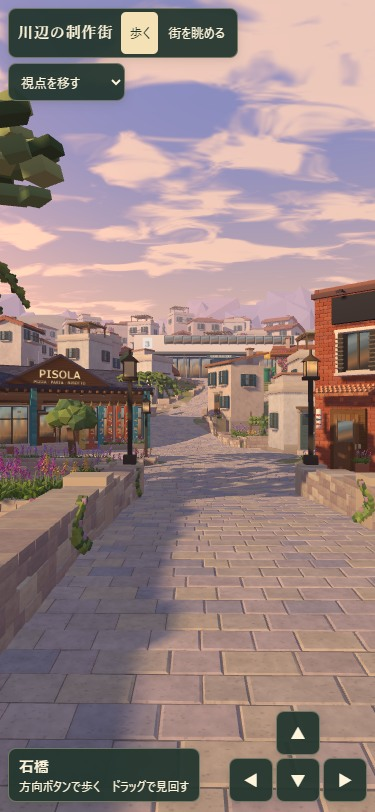
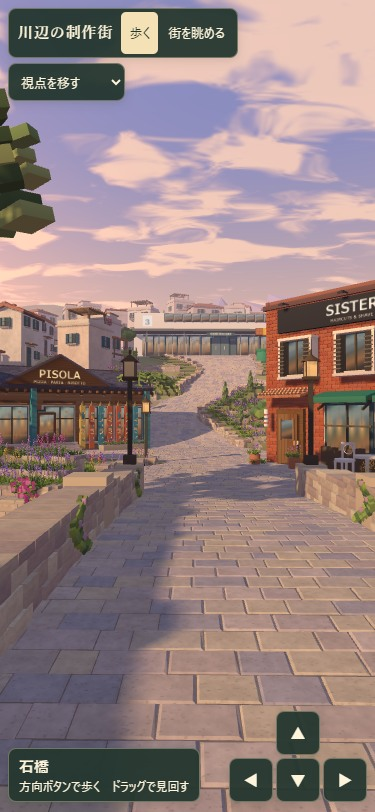
docs(prototype): compare bridge sightlines and verify both walking routes

diff --git a/prototype/review/compare.html b/prototype/review/compare.html
@@ -1,7 +1,7 @@
 <!doctype html>
 <html lang="ja">
 <meta charset="utf-8"><meta name="viewport" content="width=device-width,initial-scale=1">
-<title>街区の変更前後 ｜ 川辺の制作街</title>
+<title>石橋から見た街の変更前後 ｜ 川辺の制作街</title>
 <style>
   * { box-sizing: border-box }
   body { max-width: 1500px; margin: auto; padding: 20px; background: #f8f4ec; color: #292d28; font: 1rem/1.5 system-ui,sans-serif }
@@ -17,40 +17,42 @@
   .mobile { max-width: 770px }
   details { margin-top: 1.2rem } summary { cursor: pointer; margin-bottom: .6rem }
   details img { max-width: 780px }
+  details a { display: block }
   [hidden] { display: none }
   @media(max-width:620px){body{padding:12px}.desktop .pair{grid-template-columns:1fr}.pair{gap:8px}}
 </style>
-<header><h1>街区の変更前後</h1><a href="walk.html">街を開く →</a></header>
+<header><h1>石橋から見た街の変更前後</h1><a href="walk.html">街を開く →</a></header>
 <div class="options" role="group" aria-label="撮影サイズ">
   <label><input type="radio" name="size" value="desktop" checked> PC · 1280 × 800</label>
   <label><input type="radio" name="size" value="mobile"> スマホ · 375 × 812</label>
 </div>
 <section class="desktop" data-size="desktop" aria-label="PCの比較">
-  <h2>街区の俯瞰</h2>
-  <div class="pair">
-    <figure><figcaption>変更前</figcaption><a href="before-overview-1280.jpg"><img src="before-overview-1280.jpg" alt="PC・変更前の街区の俯瞰"></a></figure>
-    <figure><figcaption>変更後</figcaption><a href="overview-1280.jpg"><img src="overview-1280.jpg" alt="PC・変更後の街区の俯瞰"></a></figure>
-  </div>
   <h2>石橋からの歩行視点</h2>
   <div class="pair">
     <figure><figcaption>変更前</figcaption><a href="before-bridge-1280.jpg"><img src="before-bridge-1280.jpg" alt="PC・変更前の石橋からの歩行視点"></a></figure>
     <figure><figcaption>変更後</figcaption><a href="bridge-1280.jpg"><img src="bridge-1280.jpg" alt="PC・変更後の石橋からの歩行視点"></a></figure>
   </div>
+  <h2>街区の俯瞰</h2>
+  <div class="pair">
+    <figure><figcaption>変更前</figcaption><a href="before-overview-1280.jpg"><img src="before-overview-1280.jpg" alt="PC・変更前の街区の俯瞰"></a></figure>
+    <figure><figcaption>変更後</figcaption><a href="overview-1280.jpg"><img src="overview-1280.jpg" alt="PC・変更後の街区の俯瞰"></a></figure>
+  </div>
   <details><summary>川沿いの住宅路地から見る</summary><img src="quay-1280.jpg" alt="玄関の石段と小庭の間を通る路地"></details>
 </section>
 <section class="mobile" data-size="mobile" aria-label="スマホ幅の比較" hidden>
-  <h2>街区の俯瞰</h2>
-  <div class="pair">
-    <figure><figcaption>変更前</figcaption><a href="before-overview-375.jpg"><img src="before-overview-375.jpg" alt="スマホ幅・変更前の街区の俯瞰"></a></figure>
-    <figure><figcaption>変更後</figcaption><a href="overview-375.jpg"><img src="overview-375.jpg" alt="スマホ幅・変更後の街区の俯瞰"></a></figure>
-  </div>
   <h2>石橋からの歩行視点</h2>
   <div class="pair">
     <figure><figcaption>変更前</figcaption><a href="before-bridge-375.jpg"><img src="before-bridge-375.jpg" alt="スマホ幅・変更前の石橋からの歩行視点"></a></figure>
     <figure><figcaption>変更後</figcaption><a href="bridge-375.jpg"><img src="bridge-375.jpg" alt="スマホ幅・変更後の石橋からの歩行視点"></a></figure>
   </div>
+  <h2>街区の俯瞰</h2>
+  <div class="pair">
+    <figure><figcaption>変更前</figcaption><a href="before-overview-375.jpg"><img src="before-overview-375.jpg" alt="スマホ幅・変更前の街区の俯瞰"></a></figure>
+    <figure><figcaption>変更後</figcaption><a href="overview-375.jpg"><img src="overview-375.jpg" alt="スマホ幅・変更後の街区の俯瞰"></a></figure>
+  </div>
   <details><summary>川沿いの住宅路地から見る</summary><img src="quay-375.jpg" alt="玄関の石段と小庭の間を通る路地"></details>
 </section>
+<details><summary>石橋の途中から左岸の段花壇を見る</summary><a href="quay-garden.jpg"><img src="quay-garden.jpg" width="1280" height="800" alt="川に沿った三段の花壇。その奥に住宅の路地とPISOLAの大窓が見える"></a></details>
 <script>
   document.querySelector('.options').addEventListener('change', event => {
     for (const section of document.querySelectorAll('[data-size]')) section.hidden = section.dataset.size !== event.target.value;

diff --git a/prototype/README.md b/prototype/README.md
@@ -15,7 +15,9 @@
 
 石橋を渡るとSISTERとPISOLAの店先で石畳が広がる。橋を渡って左へ折れると幅1.85mの川沿いの小路があり、民家の玄関と小庭の間を抜けて坂道へ合流する。SISTERの裏手からも住宅の横丁を経て丘へ上がれる。各戸の玄関に向かう小径の幅は1.10m。民家57棟は路地に玄関を向け、間口・階高に合わせて切妻、寄棟、片流れ、屋上テラスやパーゴラを組み合わせた。
 
-比較元は前回レビュー版の 9bdc429。石橋の歩行カメラは座標 (-0.65, 2.25334, 22)、yaw 0.015、pitch 0.012 ラジアン。俯瞰の注視点は (0, 1, -4)、方位角 −0.45、仰角 0.47 ラジアン。各モードで、変更前後のカメラのワールド行列・投影行列・DPRが一致した。
+左岸の民家は住宅路地側に寄せて軒を下げた。川岸から高さ0.29m、0.58m、0.89mの順に石積みの花壇が続く。SISTERを少し奥へ移して正面を石橋へ向け、坂の内側にあった家を住宅地に移した。坂は中央で左に振れてから右に登り、標高8.10mの展示館前庭に着く。
+
+比較元は前回レビュー版の 8929981。石橋の歩行カメラは座標 (-0.65, 2.25334, 22)、yaw 0.015、pitch 0.012 ラジアン。俯瞰の注視点は (0, 1, -4)、方位角 −0.45、仰角 0.47 ラジアン。各モードで、変更前後のカメラのワールド行列・投影行列・DPRが一致した。
 
 | 撮影サイズ | 歩行の縦画角 | 俯瞰の縦画角 | DPR |
 | --- | --- | --- | --- |
@@ -26,6 +28,7 @@
 | --- | --- | --- |
 | 石橋 | [変更前](review/before-bridge-1280.jpg)・[変更後](review/bridge-1280.jpg) | [変更前](review/before-bridge-375.jpg)・[変更後](review/bridge-375.jpg) |
 | 街区の俯瞰 | [変更前](review/before-overview-1280.jpg)・[変更後](review/overview-1280.jpg) | [変更前](review/before-overview-375.jpg)・[変更後](review/overview-375.jpg) |
+| 川岸の段花壇 | [石橋の途中から見た三段の花壇](review/quay-garden.jpg) | — |
 | 川沿いの住宅路地 | [1280px](review/quay-1280.jpg) | [375px](review/quay-375.jpg) |
 | PISOLAの店先 | [1280px](review/pisola-1280.jpg) | [375px](review/pisola-375.jpg) |
 | SISTERの店先 | [1280px](review/sister-1280.jpg) | [375px](review/sister-375.jpg) |
